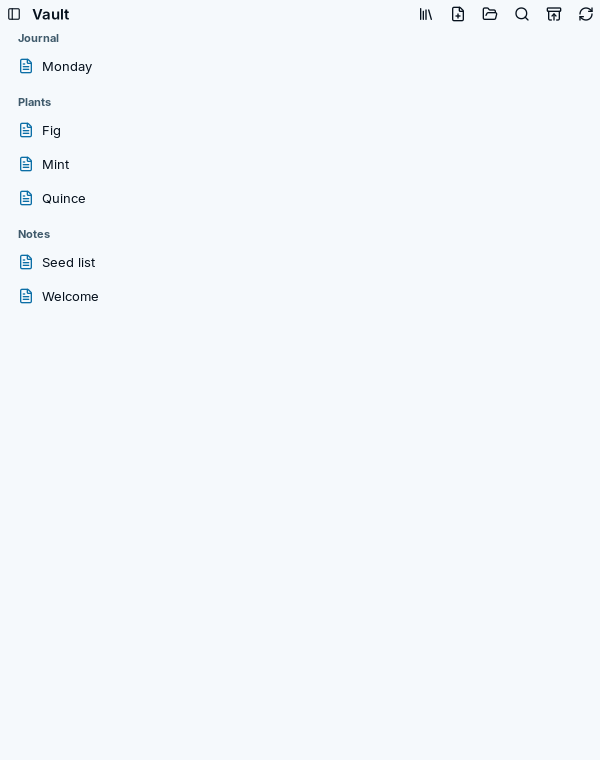
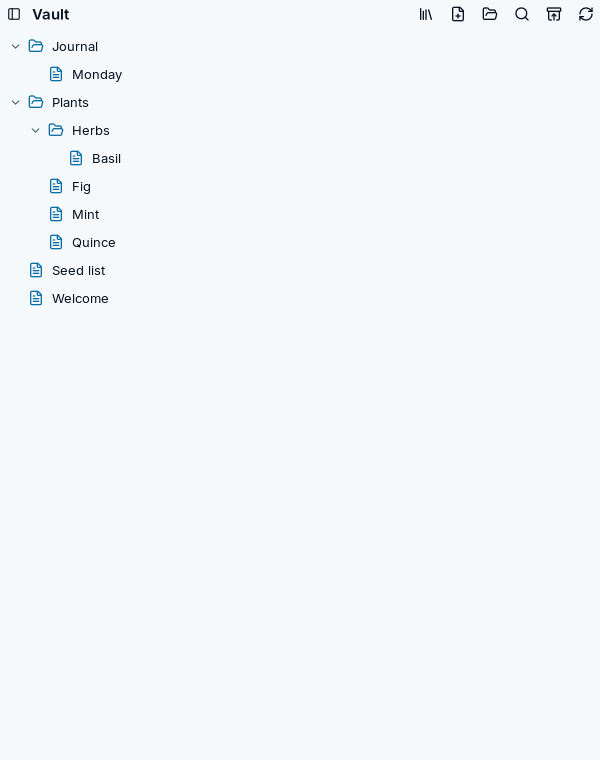
feat(nsgo): list a vault's notes as a tree
The NSGo client's notes are NSGo's tree: a folder holds its folders,
then its notes, and opens and closes. They were a sidebar with a
section for each folder's path, which showed no folder inside another.
A press of a note's row opens it, and the open note's row is the chosen
one. The tours' vault gains a note in a folder inside a folder.

Changed region(s): [[0.03, 0.0303, 0.21, 0.4237]]

diff --git a/cmd/frostnotes-nsgo/tree.go b/cmd/frostnotes-nsgo/tree.go
@@ -1,0 +1,183 @@
+package main
+
+import (
+	"maps"
+	"path"
+	"slices"
+
+	"github.com/frostyard/frostnotes/api"
+	"github.com/frostyard/frostui/workspaceui"
+	"github.com/nsgo-dev/nsgo/core"
+	"github.com/nsgo-dev/nsgo/icons/lucide"
+	"github.com/nsgo-dev/nsgo/ui"
+)
+
+// The vault's notes are a tree: a folder holds its folders, then its notes,
+// and opens and closes. It is NSGo's tree (the kit's control map: "a tree
+// of folders"), in place of a sidebar with a section for each folder's
+// path, which showed no folder inside another.
+
+// folder is the tree's key of a folder: its path in the vault, "" for the
+// vault itself. A note's key is its path, a string.
+type folder string
+
+func (f folder) parent() folder {
+	p := path.Dir(string(f))
+	if p == "." || p == "/" {
+		return ""
+	}
+	return folder(p)
+}
+
+func (f folder) name() string { return path.Base(string(f)) }
+
+// noteTree is what each folder holds, in the order it is shown, and the
+// notes' titles.
+type noteTree struct {
+	roots    []any
+	children map[folder][]any
+	titles   map[string]string
+}
+
+// buildTree makes the tree of a vault's notes. A folder's folders come
+// first, by name, then its notes in the order notesd lists them. A folder
+// is there because a note is in it or under it: notesd lists notes alone.
+func buildTree(files []api.NoteEntry) noteTree {
+	t := noteTree{children: map[folder][]any{}, titles: map[string]string{}}
+	inside, notes := map[folder][]folder{}, map[folder][]string{}
+	seen := map[folder]bool{"": true}
+	var add func(folder)
+	add = func(dir folder) {
+		if seen[dir] {
+			return
+		}
+		seen[dir] = true
+		add(dir.parent())
+		inside[dir.parent()] = append(inside[dir.parent()], dir)
+	}
+	for _, f := range files {
+		dir := folder(path.Dir(f.Path))
+		if dir == "." || dir == "/" {
+			dir = ""
+		}
+		add(dir)
+		notes[dir] = append(notes[dir], f.Path)
+		t.titles[f.Path] = f.Title
+	}
+	holds := func(dir folder) []any {
+		folders := inside[dir]
+		slices.Sort(folders)
+		out := make([]any, 0, len(folders)+len(notes[dir]))
+		for _, f := range folders {
+			out = append(out, f)
+		}
+		for _, n := range notes[dir] {
+			out = append(out, n)
+		}
+		return out
+	}
+	for dir := range seen {
+		if dir == "" {
+			t.roots = holds(dir)
+		} else {
+			t.children[dir] = holds(dir)
+		}
+	}
+	return t
+}
+
+// notesTree is the tree of the vault's notes. A press of a note's row
+// opens it, and the row of the note that is open is the chosen one.
+func (w *workspace) notesTree(cx *core.Scope) core.Node {
+	tree := core.NewMemoFunc(cx, func() noteTree { return buildTree(w.files.Get()) }, func(noteTree, noteTree) bool { return false })
+	// A vault's folders start open, and those the user closes stay closed
+	// while the vault is shown.
+	closed := core.NewSignalFunc(cx, map[folder]bool{}, func(_, _ map[folder]bool) bool { return false })
+	cx.Effect(func() {
+		w.vault.Get()
+		closed.Set(map[folder]bool{})
+	})
+	selection := ui.NewSelection(cx, false)
+	w.chosen = selection
+	chosen := func() (string, bool) {
+		if keys := selection.Keys(); len(keys) == 1 {
+			p, ok := keys[0].(string)
+			return p, ok
+		}
+		return "", false
+	}
+	// The open note's row is the chosen one. While no note is shown, as
+	// after the narrow layout's way back to the tree, the choice is the
+	// user's.
+	cx.Effect(func() {
+		p := w.selectedPath()
+		if !w.preview.Get() || p == "" {
+			return
+		}
+		cx.Untrack(func() {
+			if now, ok := chosen(); !ok || now != p {
+				selection.Set(p)
+			}
+		})
+	})
+	// A press of a note's row opens it. A folder's row is only chosen.
+	cx.Effect(func() {
+		p, ok := chosen()
+		if !ok {
+			return
+		}
+		if p != core.Untracked(cx, w.selectedPath) || !w.preview.GetUntracked() {
+			w.open(p)
+		}
+	})
+	return ui.Tree{Label: "Notes", TestID: "notes-tree", Style: ui.FillRest, Selection: selection, ToggleLabel: "Expand", RowStyleFunc: workspaceui.SoftRows(cx),
+		Roots: func() []any { return tree.Get().roots },
+		Children: func(k any) []any {
+			if f, ok := k.(folder); ok {
+				return tree.Get().children[f]
+			}
+			return nil
+		},
+		Expanded: func(k any) bool {
+			f, ok := k.(folder)
+			return ok && !closed.Get()[f]
+		},
+		OnExpand: func(k any, open bool) {
+			f, ok := k.(folder)
+			if !ok {
+				return
+			}
+			next := maps.Clone(closed.GetUntracked())
+			if open {
+				delete(next, f)
+			} else {
+				next[f] = true
+			}
+			closed.Set(next)
+		},
+		RowLabel: func(k any) string {
+			switch v := k.(type) {
+			case folder:
+				return v.name()
+			case string:
+				return tree.Get().titles[v]
+			}
+			return ""
+		},
+		Row: func(_ *core.Scope, item ui.TreeItem) core.Node {
+			return core.Dynamic(func(*core.Scope) core.Node {
+				switch v := item.Key().(type) {
+				case folder:
+					icon := lucide.Folder
+					if item.Expanded() {
+						icon = lucide.FolderOpen
+					}
+					return workspaceui.NavLabel{Icon: icon, Text: v.name()}
+				case string:
+					return workspaceui.NavLabel{Icon: lucide.FileText, Text: tree.Get().titles[v]}
+				}
+				return nil
+			})
+		},
+		Empty: workspaceui.EmptyState{Icon: lucide.FileText, Title: "No notes yet", Hint: "New note adds the first."}}
+}

diff --git a/cmd/frostnotes-nsgo/workspace_test.go b/cmd/frostnotes-nsgo/workspace_test.go
@@ -7,6 +7,7 @@ import (
 	"os"
 	"os/exec"
 	"path/filepath"
+	"slices"
 	"strings"
 	"testing"
 	"time"
@@ -230,6 +231,56 @@ func TestSwitchNoteDuringAutosave(t *testing.T) {
 	if err != nil || string(got) != "updated\r\n" {
 		t.Fatalf("first note = %q, %v", got, err)
 	}
+}
+
+// TestBuildTreeNestsFoldersBeforeNotes checks the tree's shape: a folder
+// holds its folders, by name, before its notes, in notesd's order, and a
+// folder that holds only a folder is there.
+func TestBuildTreeNestsFoldersBeforeNotes(t *testing.T) {
+	tree := buildTree([]api.NoteEntry{
+		{Path: "Welcome.md", Title: "Welcome"}, {Path: "Plants/Quince.md", Title: "Quince"}, {Path: "Plants/Herbs/Mint.md", Title: "Mint"},
+		{Path: "Plants/Bulbs/Tulip.md", Title: "Tulip"}, {Path: "Archive/2025/Old.md", Title: "Old"}, {Path: "Plants/Fig.md", Title: "Fig"},
+	})
+	same := func(name string, got []any, want ...any) {
+		t.Helper()
+		if !slices.Equal(got, want) {
+			t.Errorf("%s holds %v, want %v", name, got, want)
+		}
+	}
+	same("the vault", tree.roots, folder("Archive"), folder("Plants"), "Welcome.md")
+	same("Plants", tree.children["Plants"], folder("Plants/Bulbs"), folder("Plants/Herbs"), "Plants/Quince.md", "Plants/Fig.md")
+	same("Archive", tree.children["Archive"], folder("Archive/2025"))
+	same("Archive/2025", tree.children["Archive/2025"], "Archive/2025/Old.md")
+	if got := tree.titles["Plants/Herbs/Mint.md"]; got != "Mint" {
+		t.Errorf("the note's title is %q", got)
+	}
+	if got := folder("Plants/Herbs").name(); got != "Herbs" {
+		t.Errorf("the folder's name is %q", got)
+	}
+}
+
+// TestNotesTreeNestsFoldsAndOpens checks the tree in the window: a note in
+// a folder inside a folder stands further in than its folder, a folder
+// closes over what it holds and opens again, and a press of a note opens
+// it.
+func TestNotesTreeNestsFoldsAndOpens(t *testing.T) {
+	app, _ := startVault(t, map[string]string{"Welcome.md": "Welcome\n", "Plants/Fig.md": "Fig\n", "Plants/Herbs/Basil.md": "Basil\n"}, 1150, 760)
+	row := func(name string) string { return "id:notes-tree >> label:" + name }
+	app.WaitFor(row("Basil"), 10*time.Second)
+	left := func(name string) core.Points { return app.Find(row(name) + " >> text:" + name).Bounds().Origin.X }
+	if plants, herbs, basil := left("Plants"), left("Herbs"), left("Basil"); !(plants < herbs && herbs < basil) {
+		t.Errorf("Plants, Herbs and Basil start at %v, %v and %v: each should stand further in", plants, herbs, basil)
+	}
+	if fig, herbs := left("Fig"), left("Herbs"); fig != herbs {
+		t.Errorf("Fig starts at %v and Herbs at %v: both are in Plants", fig, herbs)
+	}
+	app.Press(row("Herbs") + " >> label:Expand")
+	app.WaitForGone(row("Basil"), 5*time.Second)
+	app.Find(row("Fig"))
+	app.Press(row("Herbs") + " >> label:Expand")
+	app.WaitFor(row("Basil"), 5*time.Second)
+	app.Press(row("Basil"))
+	app.WaitFor("text:Plants/Herbs/Basil.md", 5*time.Second)
 }
 
 func TestCreateAndFindNote(t *testing.T) {

diff --git a/cmd/frostnotes-nsgo/main.go b/cmd/frostnotes-nsgo/main.go
@@ -3,7 +3,6 @@ package main
 import (
 	"context"
 	"fmt"
-	"path"
 	"slices"
 	"strconv"
 	"time"
@@ -62,6 +61,8 @@ type workspace struct {
 	preview, live                            *core.Signal[bool]
 	appearance                               *core.Signal[core.Appearance]
 	catalogRequest, filesRequest, navigation int
+	// chosen is the notes tree's choice.
+	chosen *ui.Selection
 }
 
 func root(cx *core.Scope) core.Node {
@@ -124,8 +125,10 @@ func root(cx *core.Scope) core.Node {
 	w.bindNoteActions()
 	w.session.Start()
 	explorer := workspaceui.FileExplorer{
-		TreeWidth: 230, Tree: ui.Sidebar{SectionsFunc: w.noteSections, Selected: core.NewMemo(cx, w.selectedPath).Get, OnSelect: w.open},
-		Preview: w.editor(), HasPreview: w.preview.Get, BackToTree: func() { w.preview.Set(false) },
+		TreeWidth: 230, Tree: w.notesTree(cx),
+		// Back at the tree, no row is chosen, so a press of the note that
+		// was open opens it again.
+		Preview: w.editor(), HasPreview: w.preview.Get, BackToTree: func() { w.preview.Set(false); w.chosen.Clear() },
 	}
 	shell := workspaceui.Shell{
 		Brand: "FrostNotes", Header: []core.Node{core.Text{ContentFunc: w.title, Style: ui.TypeTitle}},
@@ -168,29 +171,6 @@ func (w *workspace) vaultSections() []ui.SidebarSection {
 		section.Note = core.Text{Content: "No vaults available"}
 	}
 	return []ui.SidebarSection{section}
-}
-
-func (w *workspace) noteSections() []ui.SidebarSection {
-	var sections []ui.SidebarSection
-	indices := map[string]int{}
-	for _, f := range w.files.Get() {
-		dir := path.Dir(f.Path)
-		i, ok := indices[dir]
-		if !ok {
-			title := dir
-			if dir == "." || dir == "/" {
-				title = "Notes"
-			}
-			i = len(sections)
-			indices[dir] = i
-			sections = append(sections, ui.SidebarSection{Title: title, Collapsible: true})
-		}
-		sections[i].Items = append(sections[i].Items, ui.SidebarItem{ID: f.Path, Text: f.Title, Icon: lucide.FileText})
-	}
-	if len(sections) == 0 {
-		return []ui.SidebarSection{{Title: "Notes", Note: core.Text{Content: "No notes available"}}}
-	}
-	return sections
 }
 
 func (w *workspace) selectedPath() string {

diff --git a/cmd/frostnotes-nsgo/pictures_test.go b/cmd/frostnotes-nsgo/pictures_test.go
@@ -16,7 +16,7 @@ import (
 // (make nsgo-live) each name is a PNG, and comparison/linux holds the last
 // set a person kept (make nsgo-pictures). No test compares pixels.
 
-// pictureVault is the tours' vault: made-up notes in two folders, with the
+// pictureVault is the tours' vault: made-up notes in three folders, with the
 // marks live preview draws.
 var pictureVault = map[string]string{
 	"Welcome.md":        "# Welcome\n\nA small vault for the pictures of the client.\n\nStart with [[Quince]] or the [[Seed list]].\n",
@@ -25,6 +25,8 @@ var pictureVault = map[string]string{
 	"Plants/Mint.md":    "# Mint\n\nKeep it in a pot, or it takes the bed.\n",
 	"Plants/Fig.md":     "# Fig\n\nBrown Turkey, against the south wall.\n",
 	"Journal/Monday.md": "# Monday\n\nPlanted the quince. Rain by noon.\n",
+	// A folder inside a folder, which the tree nests.
+	"Plants/Herbs/Basil.md": "# Basil\n\nPinch the tops, and it bushes out.\n",
 }
 
 // The size of the app's own window (main.go), and a width under both compact

diff --git a/docs/design/app.md b/docs/design/app.md
@@ -56,6 +56,8 @@ The default Linux and Lodge app uses the versioned workspace shell, file explore
 
 In the NSGo preview, **Live preview** renders headings, tasks and wiki links in the note. Clicking a line reveals its original Markdown in place. The shared scanner supplies byte ranges, and edits apply to the same document as source mode. Clicking a task changes its marker. Clicking a wiki link resolves the target through notesd. Undo and redo operate on local edits within the current preview. A remote text change clears that history. See [the live-preview design decision](../adr/0039-live-preview-is-replacements-over-the-source.md).
 
+The vault's notes are a tree (`cmd/frostnotes-nsgo/tree.go`): NSGo's `ui.Tree`, in which a folder holds its folders, by name, then its notes, and opens and closes by its chevron or a double press. A row is the kit's `NavLabel`, with a folder's or a note's icon, on the kit's soft rows. A press of a note's row opens it, the open note's row is the chosen one, and a vault's folders start open. notesd lists notes and no folders, so a folder shows because a note is in it or under it. Until 2026-11-24 the notes were a sidebar with a section for each folder's path, which showed no folder inside another (frostyard/frostmail's plan 0016, Phase 5).
+
 The client draws the kit's Frostyard look: Frostyard in the dark appearance and Frostyard light in the light one, with its text in Inter, which the kit bundles. `root` calls `workspaceui.Apply` before it builds a view, and the window's root view is `workspaceui.Frame`. Nothing else of the client's layout or controls changed with the look. On a desktop the vault manager has an Appearance row, the kit's System, Light and Dark choice. A press shows the choice at once and keeps it in the client's storage under `appearance` (`light` or `dark`; no entry is the system's), and a start shows the kept choice (`appearance.go`). The Lodge build has no such row and keeps nothing: Lodge sets its appearance (`app/src/nsgo-lodge.ts`). The look is frostmail's [ADR-0062](https://github.com/frostyard/frostmail/blob/main/docs/adr/0062-give-the-nsgo-client-the-frostyard-look-from-the-shared-kit.md) and [plan 0016](https://github.com/frostyard/frostmail/blob/main/docs/plans/0016-a-shared-look-for-the-nsgo-apps.md); the kept pictures are [below](#the-nsgo-clients-live-suite).
 
 On Linux, the vault manager creates a folder, registers an existing folder, or joins a hub vault. Pairing shows the approval code issued by notesd and waits for the hub operator. Both desktop clients use the same pairing, retry and cancellation logic. Removing a registration leaves its files on disk. The desktop status shows the selected vault’s sync state. The Flatpak applies its background preference when the last frontend exits. Lodge displays the server’s registered vaults.
@@ -1079,11 +1081,13 @@ live UI tests and pictures of the look, kept before the look changed. The
 pictures now show the kit's Frostyard look
 ([above](#shared-nsgo-editor-preview)).
 
-- **The suite:** 6 workflows (`workspace_test.go`, `vaults_test.go`) and 9
+- **The suite:** 8 workflows (`workspace_test.go`, `vaults_test.go`) and 9
   picture tours (`pictures_test.go`), with the build tags `linux` and
   `integration`. NSGo's `nsgotest` drives the client by label and text.
-  Each test starts a real notesd on temp data; the tours' vault is 6
-  made-up notes written in `pictures_test.go`.
+  Each test starts a real notesd on temp data; the tours' vault is 7
+  made-up notes written in `pictures_test.go`, 1 of them in a folder
+  inside a folder. 1 of the workflows reads no window: it checks the
+  shape `buildTree` gives a list of notes.
 - **Headless,** `make nsgo-check`, a part of `make verify`: `go test -tags
   integration` in `cmd/frostnotes-nsgo`. NSGo models the views, with
   approximate text and no pixels: `app.Screenshot` only logs.
